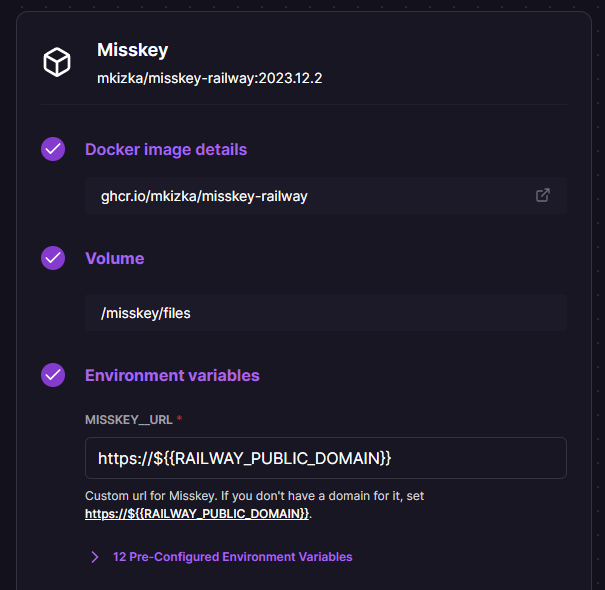
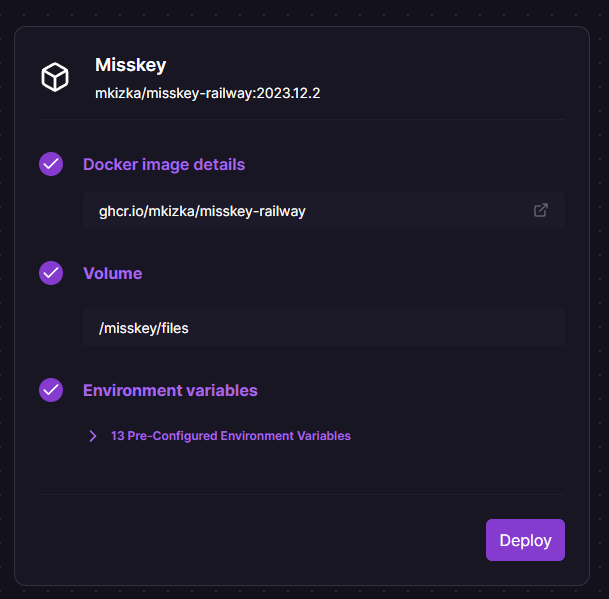
added explanation of domain settings

diff --git a/README_ja.md b/README_ja.md
@@ -12,7 +12,12 @@
 ### 2. 環境変数を設定
 ![](images/setup1.png)
 
-環境変数を設定します。Misskeyはymlファイルを使って設定を行いますが、このテンプレートでは環境変数が使用できるカスタムされたDockerイメージを使います。
+必要に応じて環境変数を設定します。もし変更したいものが無ければ、何もする必要はありません。
+
+<details>
+<summary>変更したい方向け</summary>
+
+Misskeyはymlファイルを使って設定を行いますが、このテンプレートでは環境変数が使用できるカスタムされたDockerイメージを使います。
 
 このDockerイメージでは、コンテナ起動時に先頭に`MISSKEY`とついた環境変数の内容に応じてymlファイルが生成されます。
 
@@ -30,11 +35,21 @@ db:
 ```
 
 変換の詳細な規則については[read-envのREADME](https://github.com/yatki/read-env)を、Misskeyの各設定について詳しくは[Misskeyの.config/example.yml](https://github.com/misskey-dev/misskey/blob/9eae82de1d4f9157602451e26e734c8f4ae94bea/.config/example.yml)を参照してください。
+</details>
 
-### 3. 設定完了後「Deploy」をクリック
-全ての設定完了後にデプロイ出来るようになります。
+### 3.「Deploy」をクリック
+デプロイが始まります。
 
-### 4. 数分後、「Misskey」サービスをクリックしてURLにアクセス
+### 4. ドメインを設定する(任意)
+「Settings」からドメインを設定できます。Railwayの無料ドメインか、あなたが持っているカスタムドメインを使用できます。
+
+![](images/setup4.png)
+
+ドメインをセットした後、必ず「Redeploy」をクリックしてください。
+
+![](images/setup4-2.png)
+
+### 5. 数分後、「Misskey」サービスをクリックしてURLにアクセス
 以下のような画面の「Deployments」にURLが表示されています。
 
 ![](images/setup2.png)
@@ -44,5 +59,6 @@ db:
 ![](images/setup3.png)
 
 ## ⚠⚠注意⚠⚠
+- Misskeyを使い始めた後、ドメインを変更しないでください。
 - アップロードした画像はマウントされたボリュームに保存されます。ボリュームの容量は5GBのため、必要に応じてS3などを最初から設定しておくことをおすすめします。
 - Railwayは使用量に応じて課金されるため、フォローを増やしすぎないでください。[設定から使用量を制限することも出来ます。](https://docs.railway.app/reference/usage-limits)

diff --git a/README.md b/README.md
@@ -12,7 +12,11 @@ This is a template for deploying Misskey on [Railway](https://railway.app).
 ### 2. Set Environment Variables
 ![](images/setup1.png)
 
-Set the environment variables. Misskey uses a yml file for configuration, but this template allows the use of environment variables with a custom Docker image.
+Set the environment variables as needed. If there is nothing you want to change, you don't need to do anything.
+
+<details>
+<summary>For those who want to change</summary>
+Misskey uses a yml file for configuration, but this template allows the use of environment variables with a custom Docker image.
 
 In this Docker image, a yml file is generated at container startup based on the environment variables prefixed with `MISSKEY`.
 
@@ -30,11 +34,21 @@ db:
 ```
 
 For detailed rules of the conversion, refer to [read-env's README](https://github.com/yatki/read-env), and for more information on each setting of Misskey, refer to [Misskey's .config/example.yml](https://github.com/misskey-dev/misskey/blob/9eae82de1d4f9157602451e26e734c8f4ae94bea/.config/example.yml).
+</details>
 
-### 3. After Completing the Settings, Click 'Deploy'
-You will be able to deploy after all settings are completed.
+### 3. Click 'Deploy'
+Deployment starts.
 
-### 4. A Few Minutes Later, Click on the 'Misskey' Service and Access the URL
+### 4. Set Up a Domain (Optional)
+You can set up a domain from the "Settings". You can use a free domain from Railway, or your own custom domain. 
+
+![](images/setup4.png)
+
+After setting the domain, be sure to click "Redeploy".
+
+![](images/setup4-2.png)
+
+### 5. A Few Minutes Later, Click on the 'Misskey' Service and Access the URL
 The URL will be displayed in the 'Deployments' section as shown below.
 
 ![](images/setup2.png)
@@ -44,5 +58,6 @@ That's it!
 ![](images/setup3.png)
 
 ## ⚠⚠Caution⚠⚠
+- After starting to use Misskey, please do not change the domain.
 - Uploaded images are stored in the mounted volume. The volume capacity is 5GB, so it is recommended to set up S3 or similar from the start if needed.
 - Railway charges based on usage, so please do not increase your followers excessively. [You can also set limits on usage from the settings.](https://docs.railway.app/reference/usage-limits)
